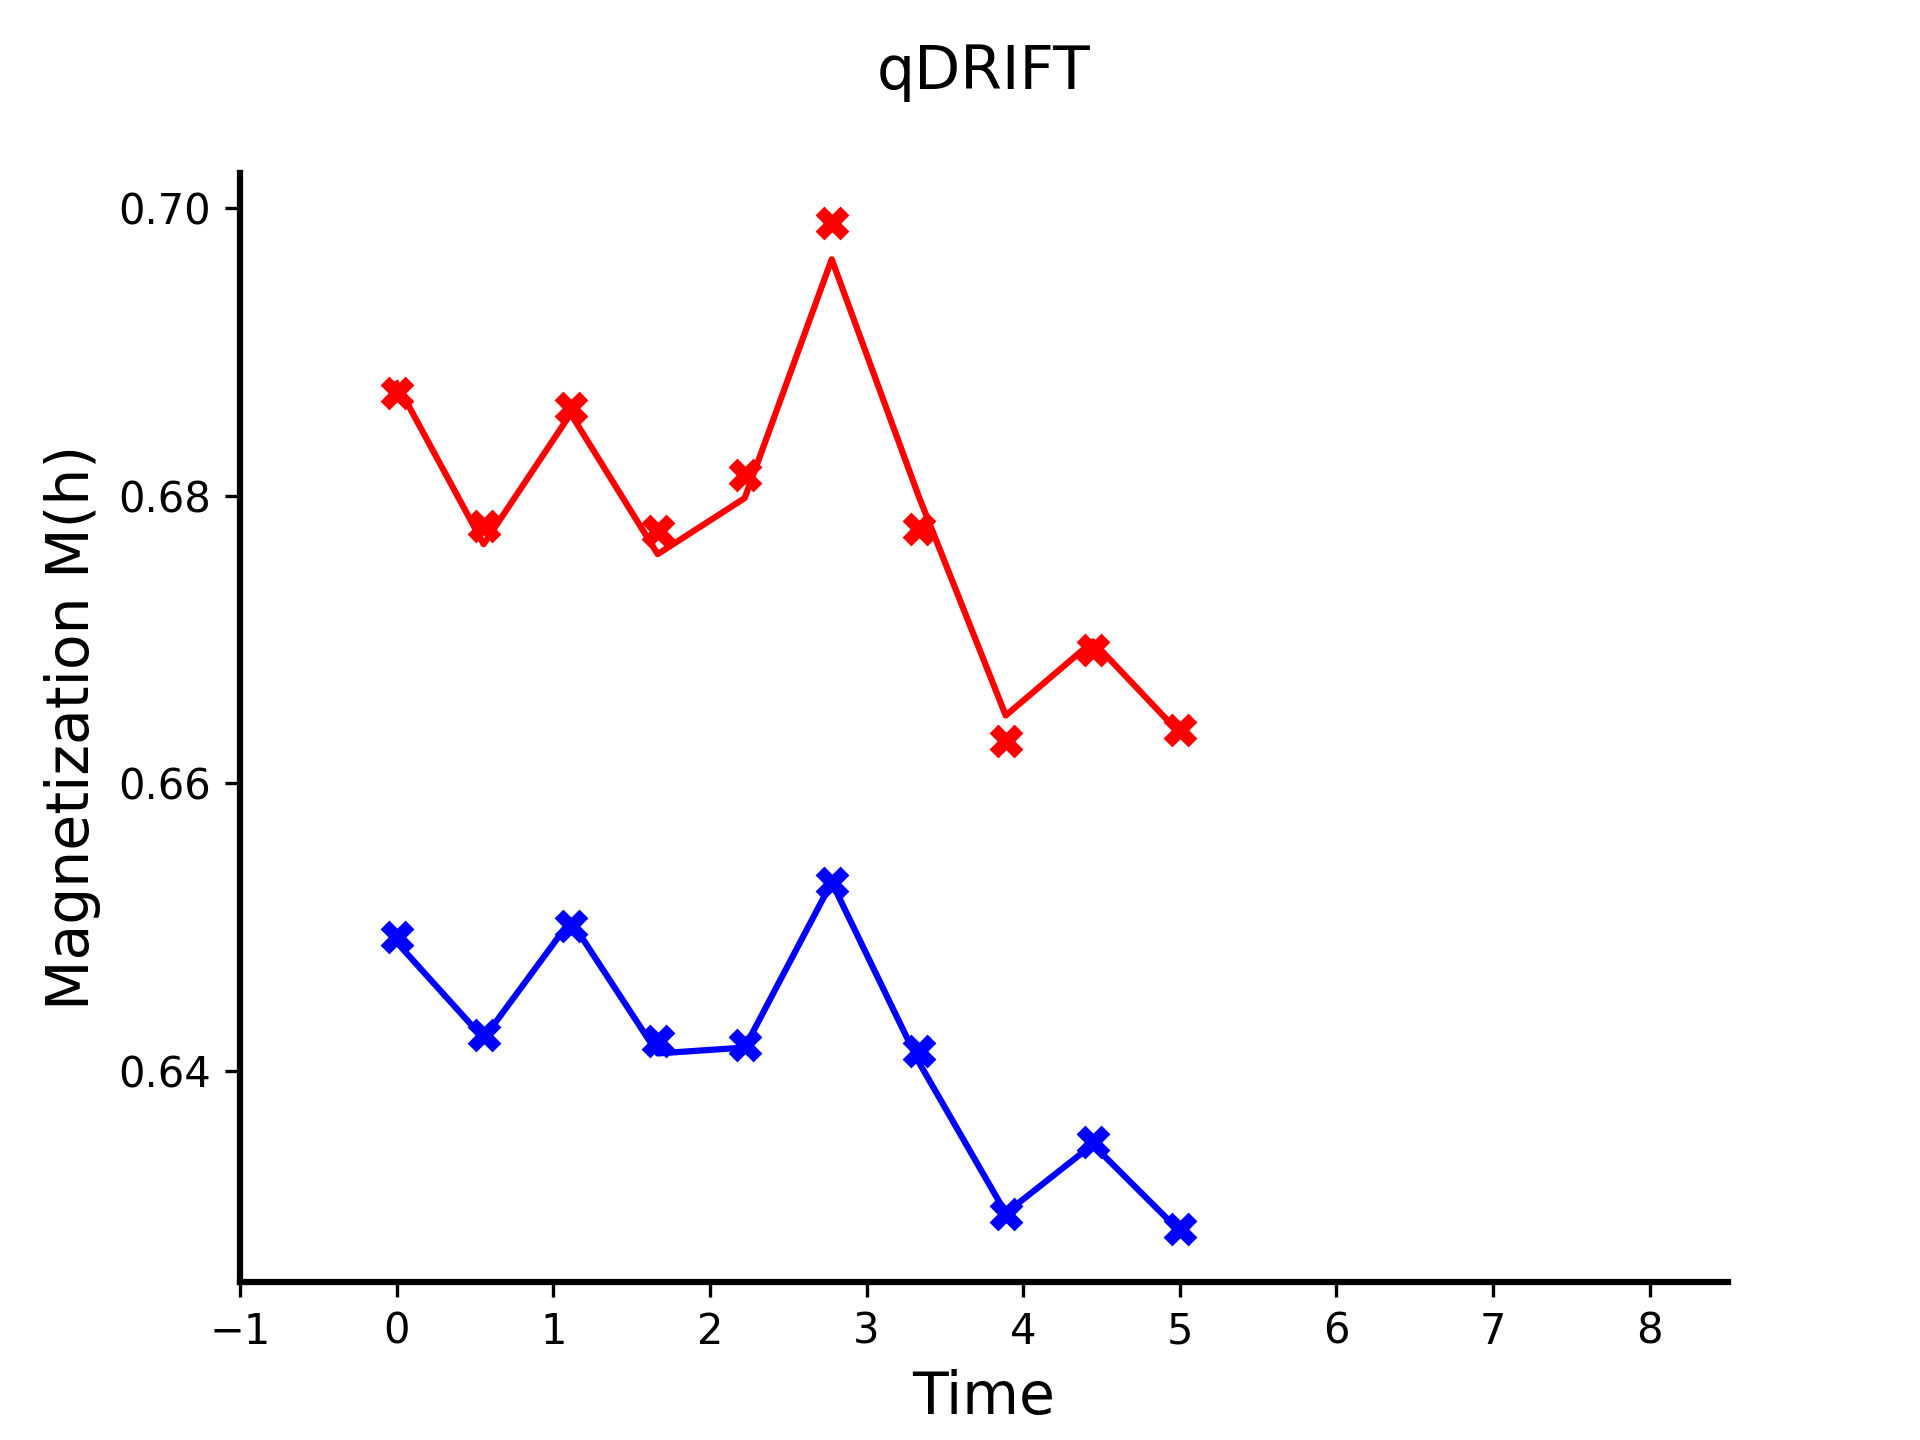
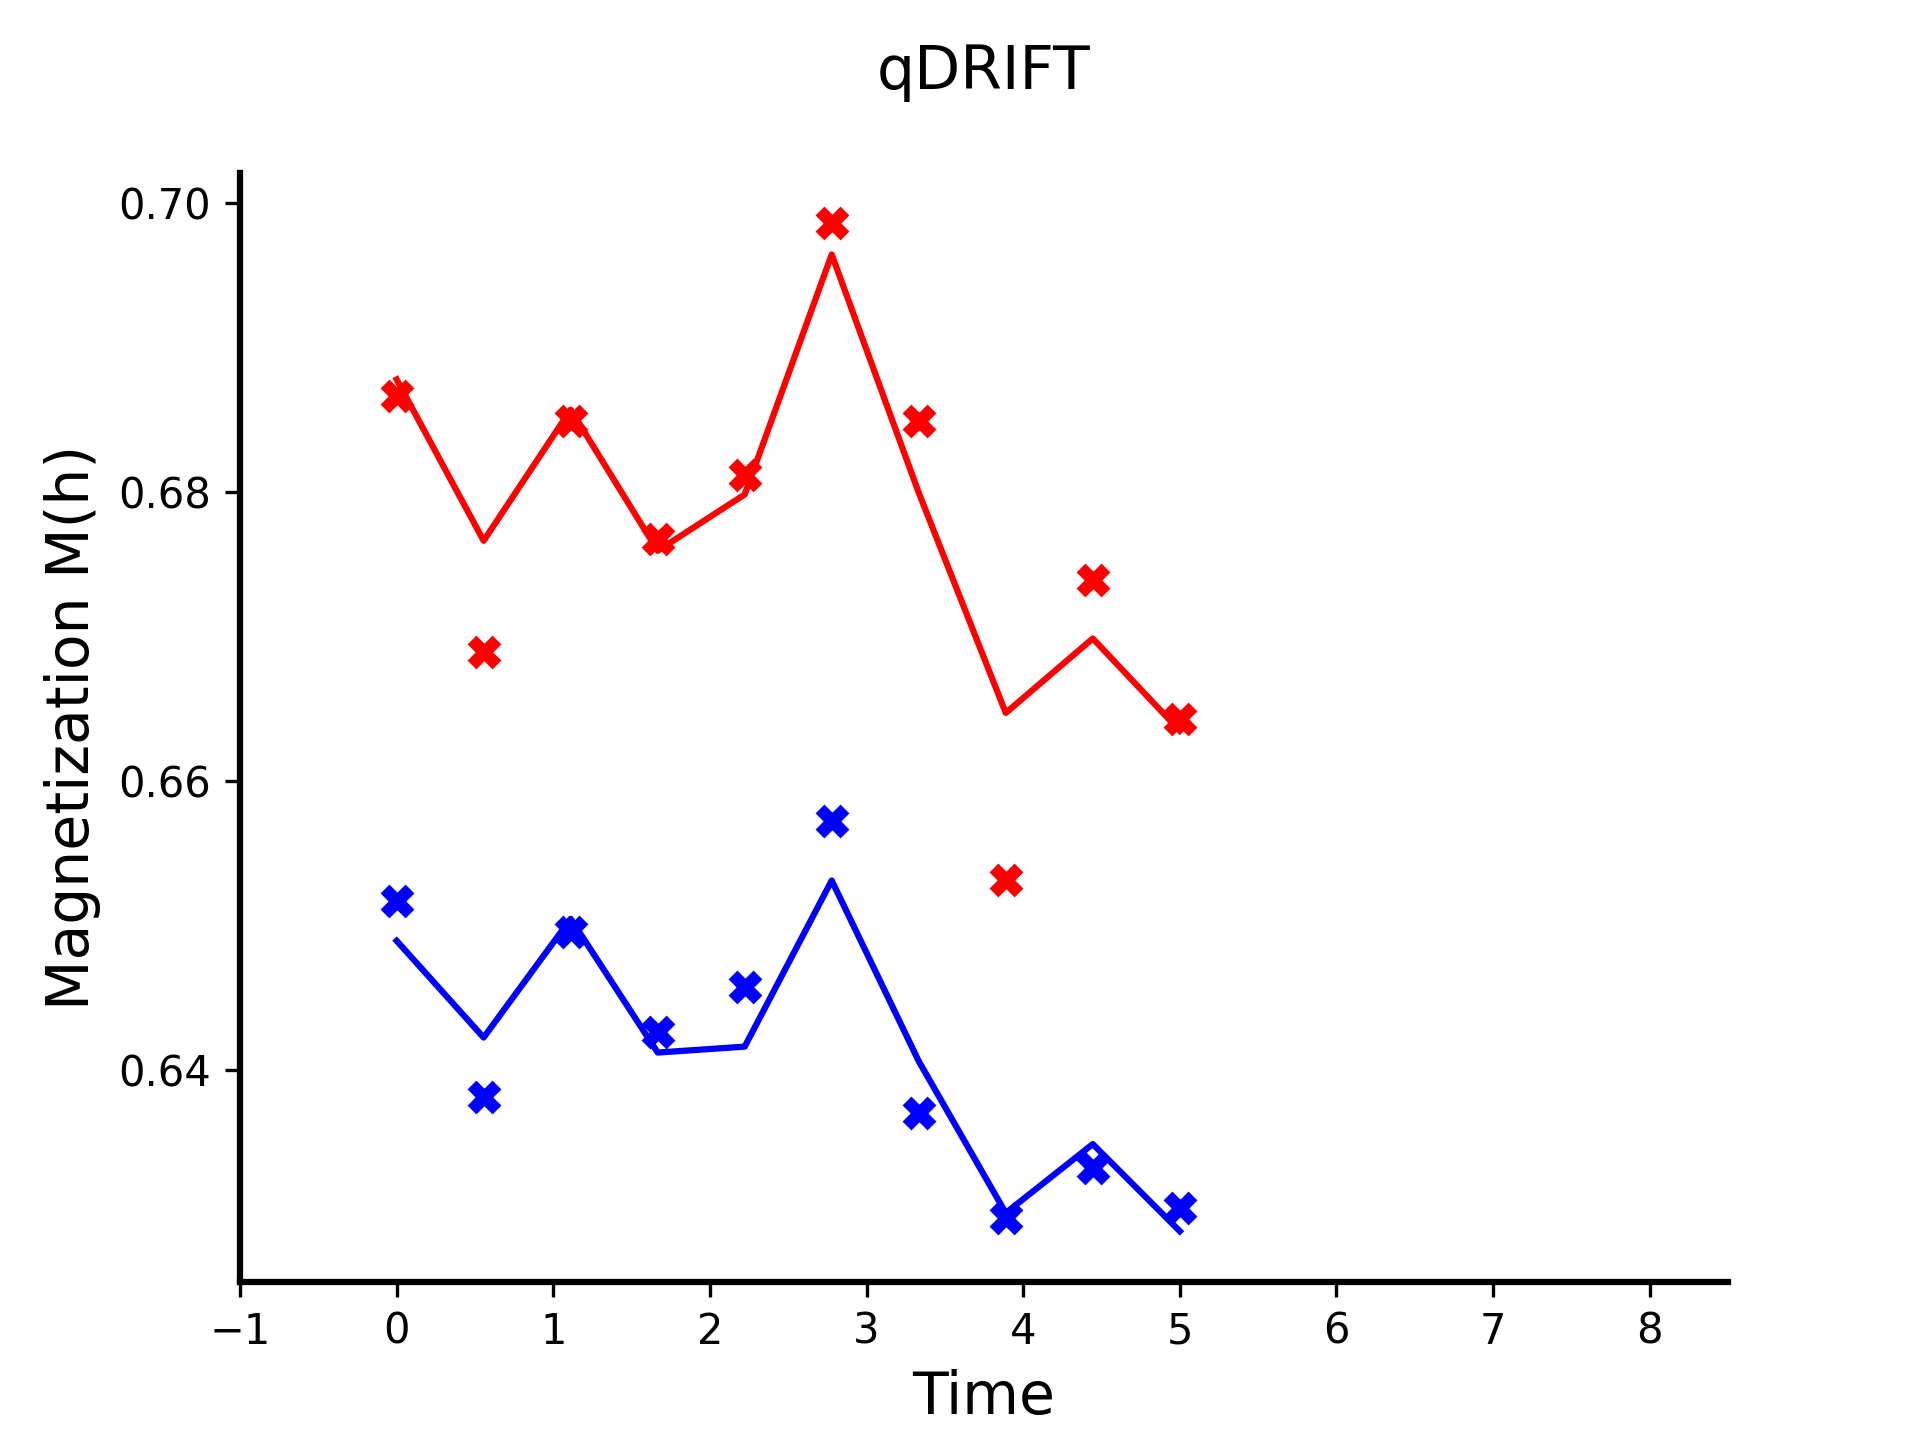
QDRIFT Fixed

diff --git a/ising/simulation/taylor/taylor_single.py b/ising/simulation/taylor/taylor_single.py
@@ -114,7 +114,8 @@ def sum_decomposition_k_fold(paulis, t_bar, r, coeffs, cap_k):
     return (kth_paulis, kth_probs, k_probs)
 
 
-def taylor_observation(ham: Hamiltonian, time: float, error: float, obs, rho_init):
+def taylor_observation(ham: Hamiltonian, time: float, error: float, obs, rho_init, success: float):
+    delta = 1 - success
     paulis = ham.paulis
     coeffs = ham.coeffs
     beta = np.sum(np.abs(np.array(coeffs)))
@@ -127,7 +128,8 @@ def taylor_observation(ham: Hamiltonian, time: float, error: float, obs, rho_ini
     r = max(20, r)
 
     # TODO obs_norm
-    cap_k = get_cap_k(t_bar, obs_norm=1, eps=error)
+    obs_norm = 1
+    cap_k = get_cap_k(t_bar, obs_norm=obs_norm, eps=error)
 
     print(f"Computing decomposition for t_bar={t_bar} t={time} r={r} k={cap_k}")
     kth_paulis, kth_probs, k_probs = sum_decomposition_k_fold(
@@ -188,11 +190,14 @@ def taylor_observation(ham: Hamiltonian, time: float, error: float, obs, rho_ini
 
     total_count = 0
     count = 1000
+    count = np.ceil(((obs_norm**2) * (np.log(2 / delta))) / (error**2))
     results = []
 
     sample_ks = Counter(
         [tuple(x) for x in np.random.choice(cap_k + 1, p=k_probs, size=(count, 2))]
     )
+
+    print("Time:{time} Iterations:{count}")
 
     for k1, k2 in sorted(sample_ks.keys()):
         k_count = sample_ks[(k1, k2)]
@@ -242,6 +247,7 @@ class TaylorSingle:
         self.ham_subbed: Optional[Hamiltonian] = None
 
         self.h = h
+        self.success = kwargs.get("success", 0.9)
 
     @property
     def ground_state(self) -> NDArray:
@@ -264,7 +270,7 @@ class TaylorSingle:
         if self.ham_subbed is None:
             raise ValueError("Parameter not substituted.")
         return taylor_observation(
-            self.ham_subbed, time, self.error, self.run_obs, self.rho_init
+            self.ham_subbed, time, self.error, self.run_obs, self.rho_init, self.success
         )
 
     def get_observations(

diff --git a/ising/plotter/time_simulation.py b/ising/plotter/time_simulation.py
@@ -87,7 +87,7 @@ def plot_combined(
     ax.set_ylabel("Magnetization M(h)", fontsize=14)
 
     # SETTING: TITLE PAD
-    ax.set_title("Truncated Taylor Series", pad=20)
+    ax.set_title("qDRIFT", pad=20)
     ax.get_legend().remove()
 
     plt.savefig(diagram_name, dpi=300)
